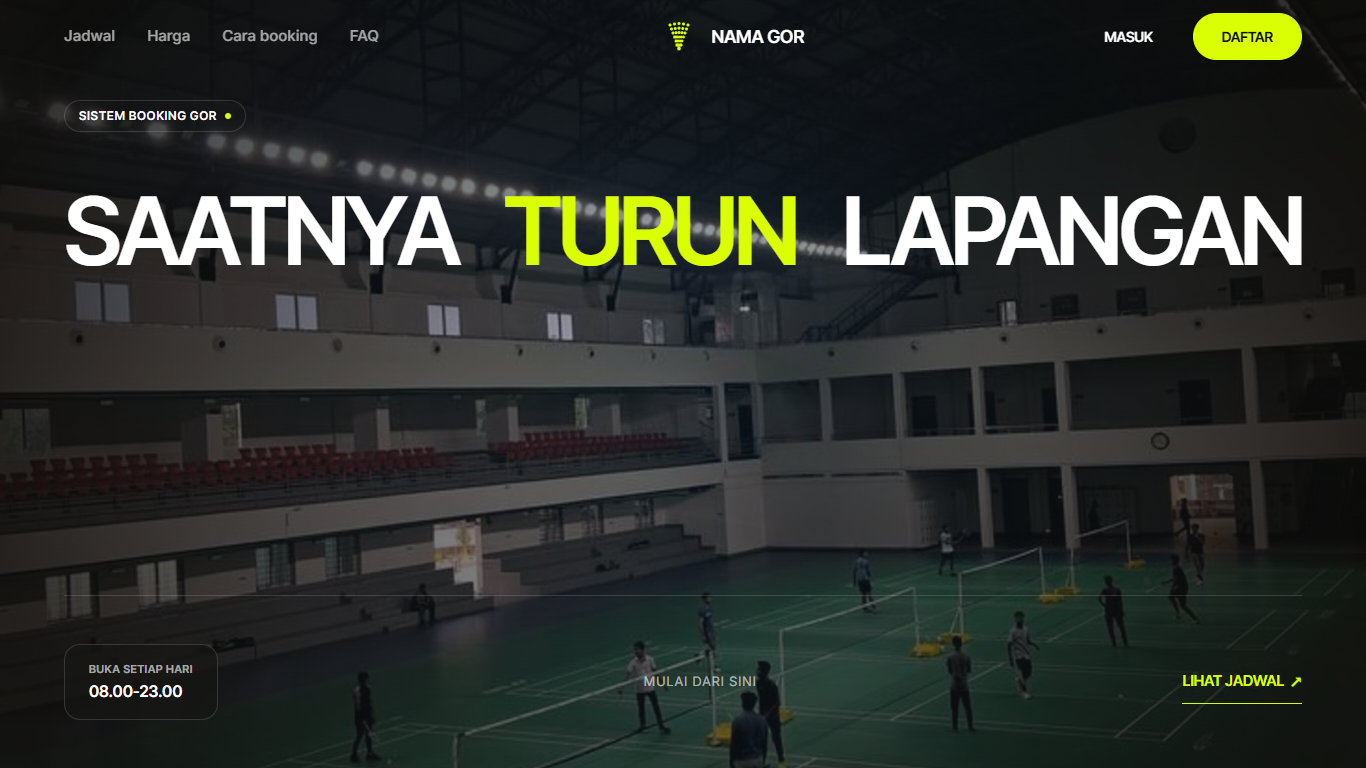
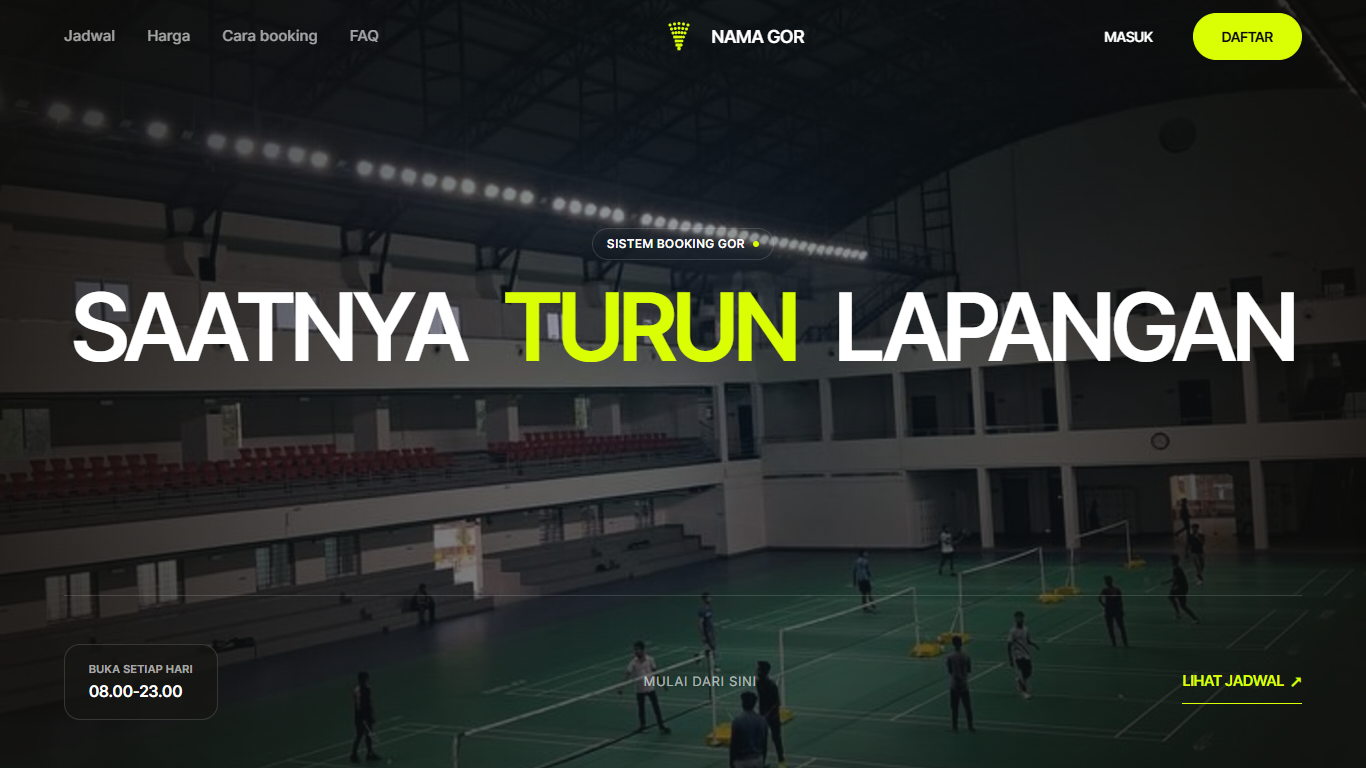
style: pusatkan judul hero secara vertikal dan horizontal agar seimbang di tengah kanvas

diff --git a/resources/css/components.css b/resources/css/components.css
@@ -670,6 +670,17 @@ details[open] .faq-icon {
     flex: 1;
 }
 
+.hero-main-block {
+    margin-top: auto;
+    margin-bottom: auto;
+    display: flex;
+    flex-direction: column;
+    align-items: center;
+    text-align: center;
+    width: 100%;
+    padding: var(--spasi-4) 0;
+}
+
 .hero-judul {
     font-family: var(--font-judul);
     font-size: clamp(2.6rem, 6.9vw, 6.8rem);
@@ -678,11 +689,12 @@ details[open] .faq-icon {
     line-height: 0.92;
     letter-spacing: var(--tracking-judul);
     display: flex;
-    justify-content: space-between;
+    justify-content: center;
     align-items: baseline;
+    gap: clamp(1rem, 2.8vw, 3.2rem);
     width: 100%;
-    margin-top: var(--spasi-4);
-    margin-bottom: var(--spasi-4);
+    margin-top: var(--spasi-3);
+    margin-bottom: 0;
 }
 
 .hero-grid-sub {
@@ -777,6 +789,14 @@ details[open] .faq-icon {
     .hero-section {
         padding-top: 84px;
         padding-bottom: var(--spasi-4);
+    }
+
+    .hero-main-block {
+        align-items: flex-start;
+        text-align: left;
+        margin-top: var(--spasi-2);
+        margin-bottom: var(--spasi-2);
+        padding: 0;
     }
 
     .hero-judul {

diff --git a/resources/views/landing.blade.php b/resources/views/landing.blade.php
@@ -12,8 +12,8 @@
     <div class="pola-titik" style="position: absolute; inset: 0; opacity: 0.35; pointer-events: none;" aria-hidden="true"></div>
 
     <div class="kontainer hero-content">
-        <div>
-            <x-penanda teks="SISTEM BOOKING GOR" style="margin-bottom: var(--spasi-3);" />
+        <div class="hero-main-block">
+            <x-penanda teks="SISTEM BOOKING GOR" />
             
             {{-- Satu h1 tunggal di halaman --}}
             <h1 class="hero-judul">
